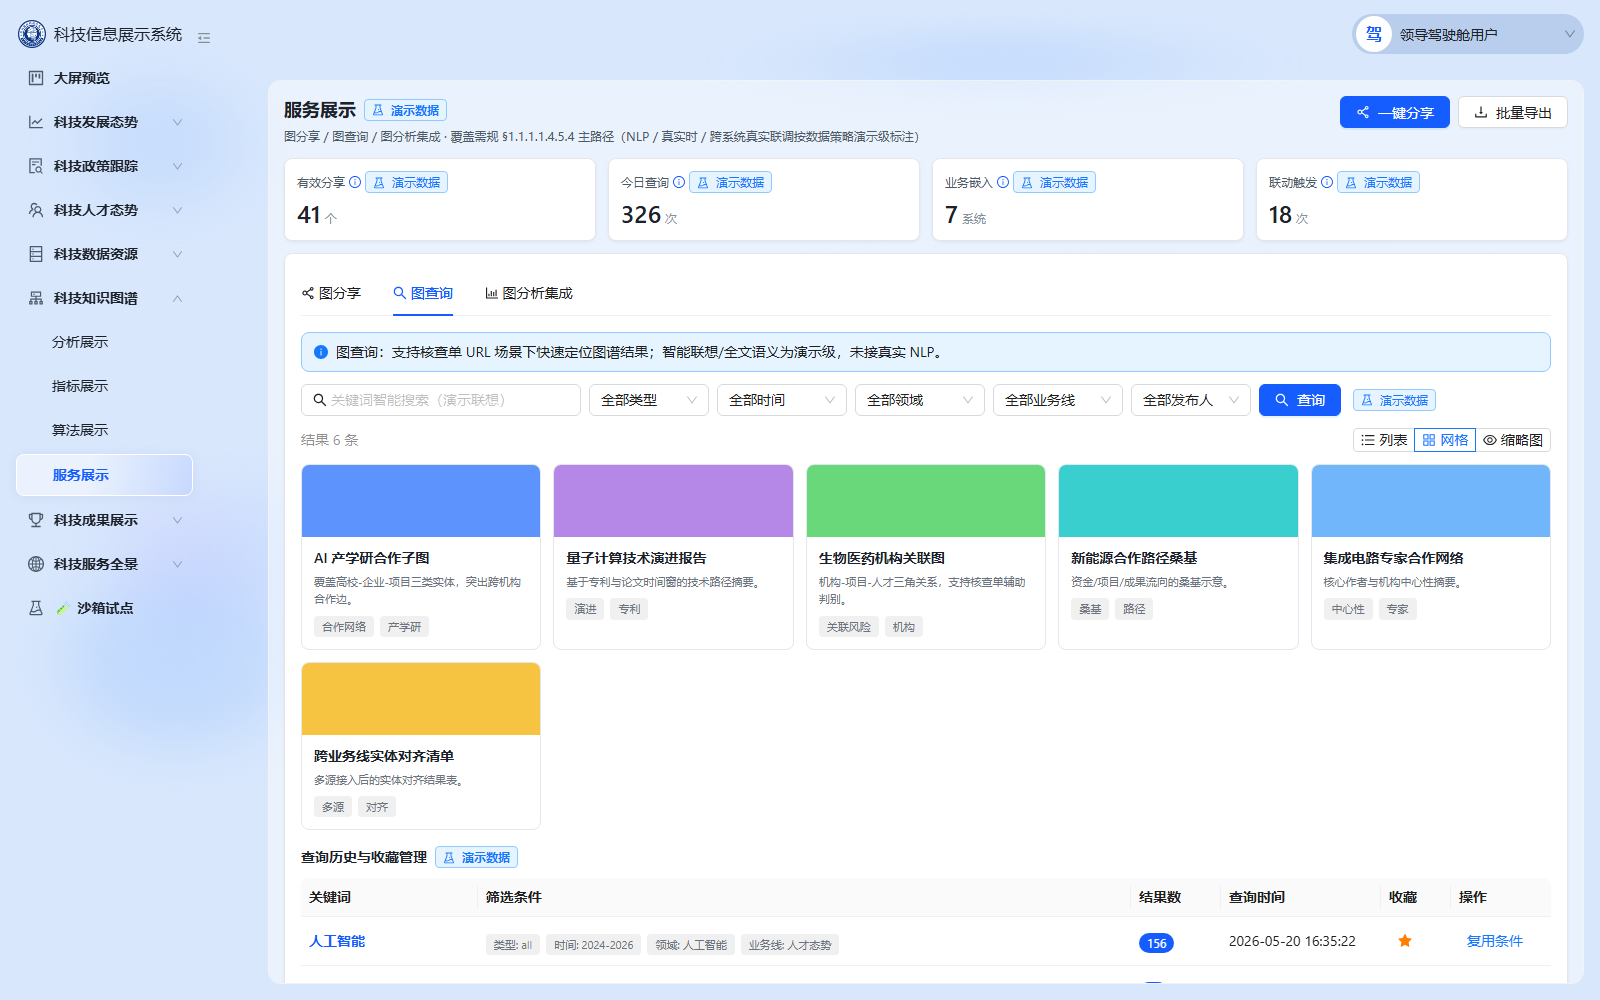
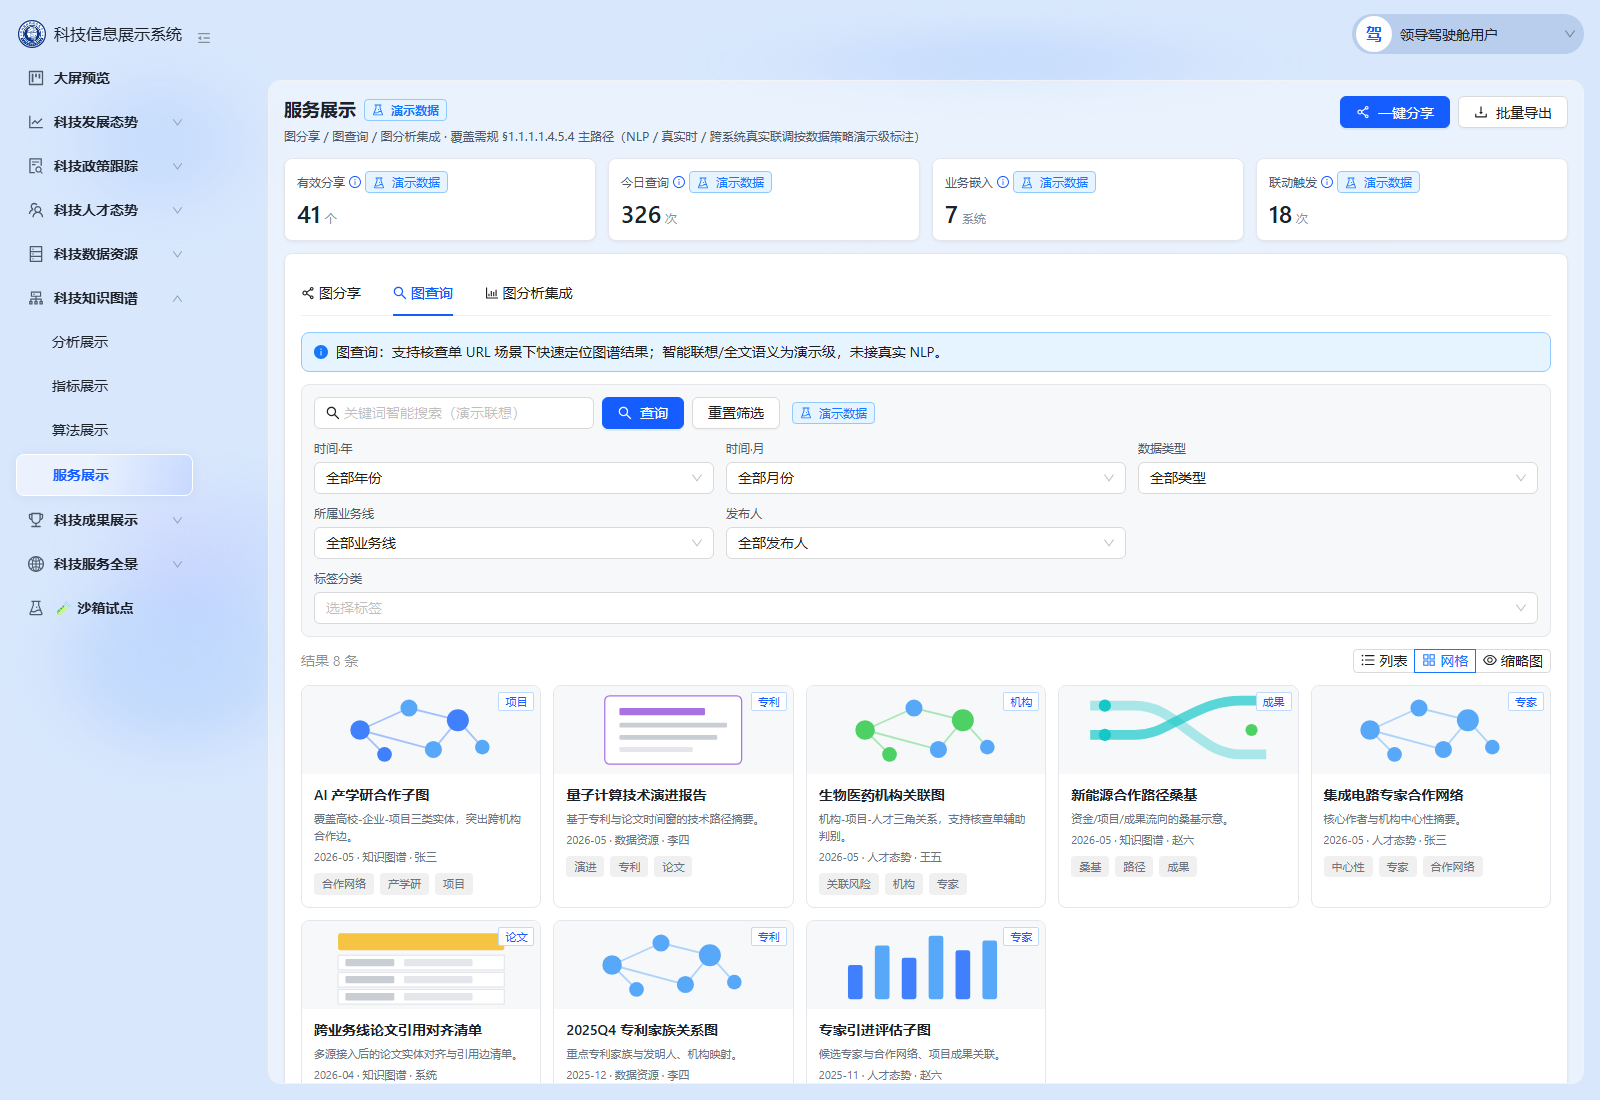
docs(kg-service): 回写监管反馈补齐与截图证据 [agent:ui-agent]
更新符合度判定、handoff 补齐说明与 query/integration/modeling 截图。

diff --git a/docs/符合度评估-科技知识图谱-服务展示.md b/docs/符合度评估-科技知识图谱-服务展示.md
@@ -5,7 +5,7 @@
 - **核查对象**：`demo-ui-science/src/pages/tech-knowledge-graph/ServiceDisplay.jsx`（策略 A 原地更新）
 - **需规真源**：`agent-delivery/bid-reference/科技信息展示系统和科技专题服务系统.md` §1.1.1.1.4.5.4（图分享 / 图查询 / 图分析集成）
 - **判定口径**：✅ 主路径 UI 存在且可交互（原型阶段接受 Mock）｜🟡 有入口但深度/真实能力按数据策略演示级｜❌ 无入口
-- **结论速览**：17 项叶子功能 —— **✅ 11 / 🟡 6 / ❌ 0**
+- **结论速览**：17 项叶子功能 —— **✅ 12 / 🟡 5 / ❌ 0**（2026-08-09 监管反馈补齐后复核）
 
 ## 0. 四级总览
 
@@ -31,8 +31,8 @@
 | 叶子功能 | 判定 | 证据 | 缺口 / 演示标注 |
 |---|---|---|---|
 | 2.1 关键词智能搜索 | 🟡 | AutoComplete 联想 + 查询写入历史 | NLP/全文语义为前端模糊匹配演示 |
-| 2.2 多维条件筛选 | ✅ | 类型/时间/领域/业务线/发布人组合筛选，结果即时过滤 | — |
-| 2.3 结果展示与快速浏览 | ✅ | 列表 / 网格 / 缩略图三视图 | — |
+| 2.2 多维条件筛选 | ✅ | 年/月、数据类型（论文/专利/项目/专家/机构/成果）、业务线、发布人、标签多选；结果即时过滤 | 初版仅有展示形态筛选，已按监管反馈对齐需规维度 |
+| 2.3 结果展示与快速浏览 | ✅ | 列表 / 网格 / 缩略图三视图；网格与缩略图含 SVG 示意小图（非空色块） | — |
 | 2.4 图表详情与预览功能 | ✅ | 右侧 Drawer：摘要/来源/场景/标签 | — |
 | 2.5 查询历史与收藏管理 | ✅ | 历史表 + 星标收藏 + 复用条件 | — |
 
@@ -41,7 +41,7 @@
 | 叶子功能 | 判定 | 证据 | 缺口 / 演示标注 |
 |---|---|---|---|
 | 3.1 多源数据接入与整合 | ✅ | 四类数据源卡片（结构化/半结构化/非结构化） | 接入状态为 Mock |
-| 3.2 智能数据建模与图谱生成 | 🟡 | 「生成演示图谱」流程文案 + 按钮 | AI 抽取未接算法仓，明确演示标注 |
+| 3.2 智能数据建模与图谱生成 | ✅/🟡 | 实体类型勾选+自定义、标签/关系自定义、AI 抽取表、关系映射步骤、网络图生成 | AI 抽取仍为演示 Mock（🟡 深度），主路径交互已齐 |
 | 3.3 丰富的可视化图表构建能力 | ✅ | 柱/折/饼/关系/桑基 ECharts 切换 + 导出/分享 | — |
 | 3.4 实时数据分析与动态监控 | 🟡 | 实时监控开关 + 「监控中（演示）」 | 非真实时流 |
 | 3.5 图分析与业务决策联动 | 🟡 | 联动规则表 + 模拟触发 | 跨系统真实流转未接 |

diff --git a/agent-handoffs/FE-DISPLAY-KG-SERVICE-ALIGN-L01.md b/agent-handoffs/FE-DISPLAY-KG-SERVICE-ALIGN-L01.md
@@ -6,7 +6,13 @@
 > 监管人: `human:郭万迎`  
 > 认领类型: `coordinator_dispatch`  
 > 日期: 2026-08-09  
-> 状态: review（待 coordinator 验收）
+> 状态: review（待 coordinator 验收；含 2026-08-09 监管反馈补齐）
+
+### 监管反馈补齐（同日）
+
+1. **多维条件筛选**：对齐需规——年/月、数据类型（论文/专利/项目/专家/机构/成果）、业务线、发布人、标签多选  
+2. **结果缩略图**：网格/缩略图/列表增加 SVG 示意小图（关系网/桑基/柱/表/报告），不再是空色块  
+3. **智能数据建模与图谱生成**：实体类型勾选+自定义、标签/关系自定义、AI 抽取表、步骤条、网络图生成（AI 深度仍演示级）
 
 ---
 
